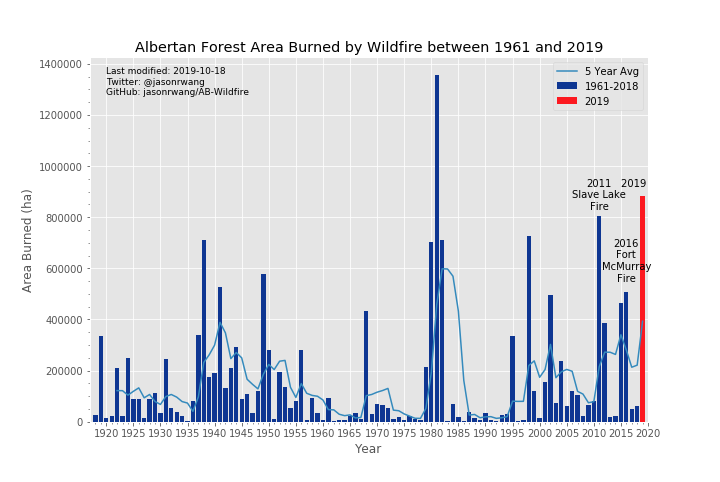
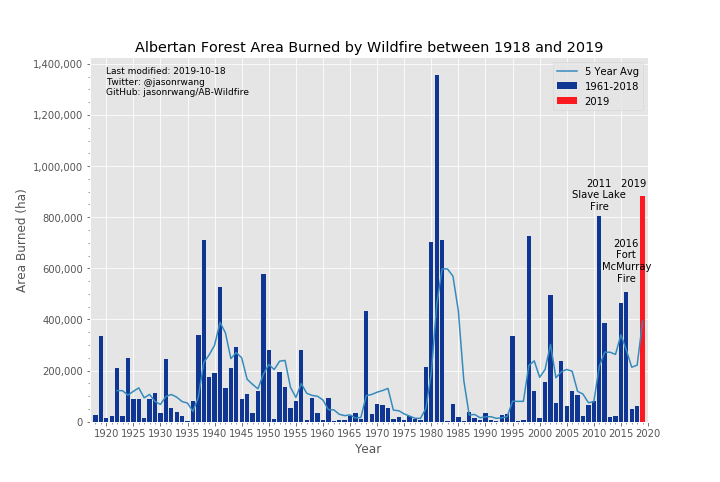
Fixed AB plot title and formated y-axis

diff --git a/readme.md b/readme.md
@@ -3,7 +3,7 @@
 A quick peek into Alberta and British Columbia's wildfire histories (I started with just Alberta). Take a look at this analysis yourself:
 [![Binder](https://mybinder.org/badge_logo.svg)](https://mybinder.org/v2/gh/jasonrwang/AB-Wildfire/master?urlpath=lab)
 
-Last modified: 2019-10-18 (or the latest date shown on my GitHub repo)
+Last modified: 2019-10-29 (or the latest date shown on my GitHub repo)
 
 ## Preamble
 
